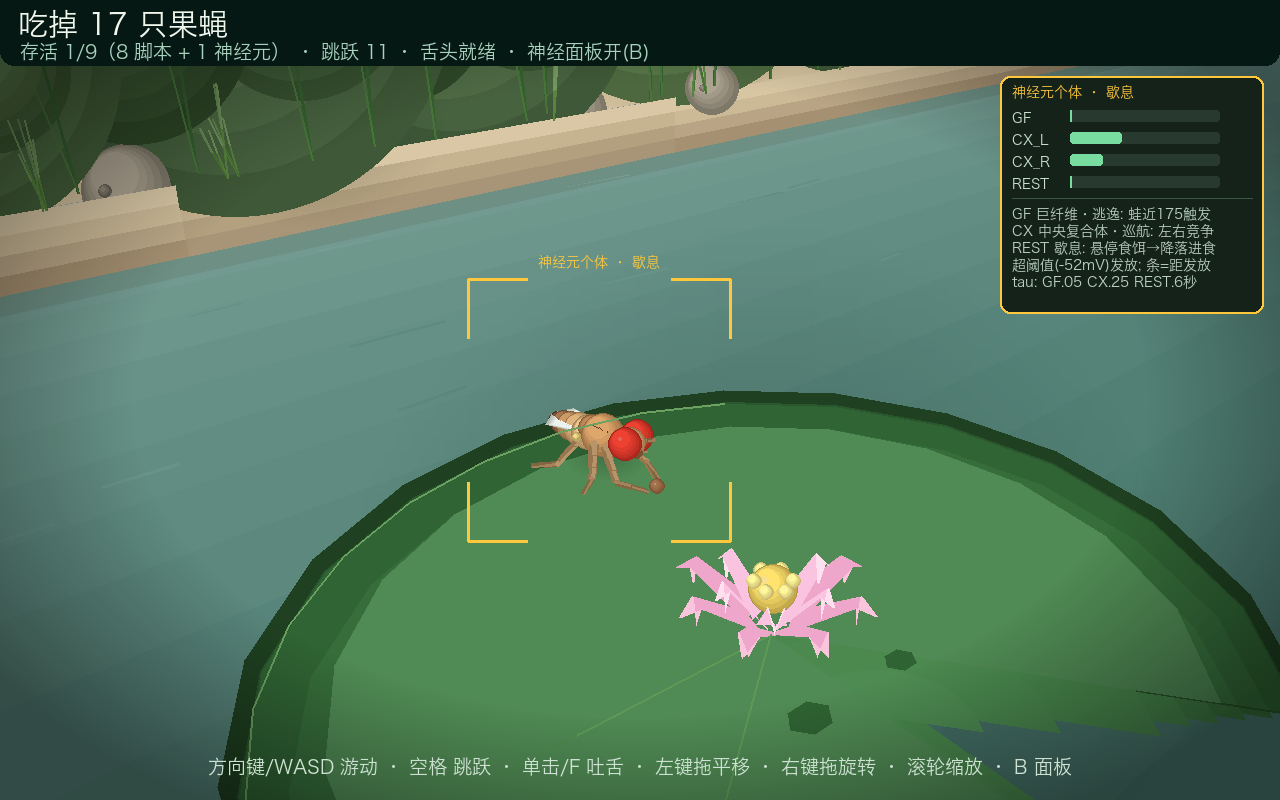
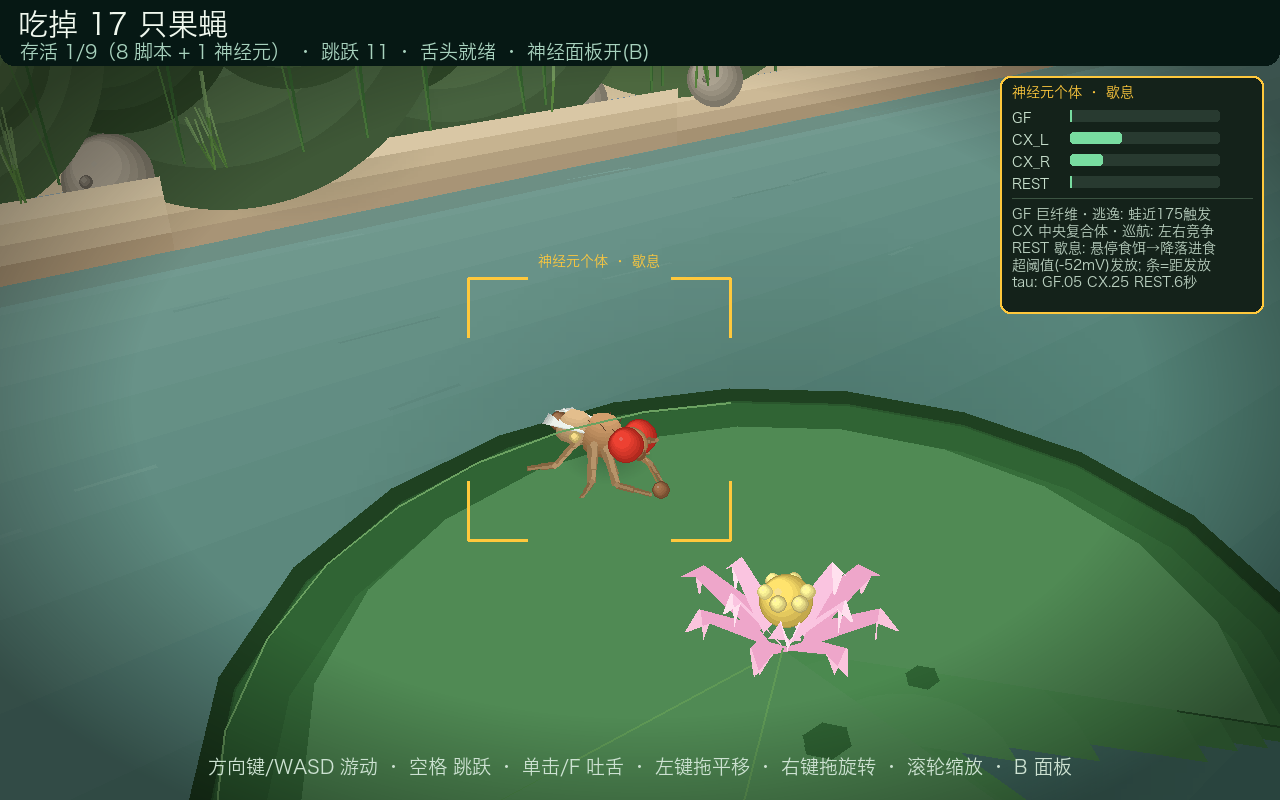
fix(art): natural frog sitting pose and a simpler, coordinated fly model
Frog: legs are no longer pinned against the body — the hip sits inside the flank, the
femur angles back-out to a knee just outside the silhouette (side 29), the tibia folds
forward along the flank and the webbed foot lies alongside the body with toes fanned
slightly outward. Limbs are a touch thinner and the front legs are shorter, so the
silhouette reads as a sitting frog rather than a splayed or glued-together one.

Fly: replaced the bead-string body with three continuous ellipsoid volumes — a humped
thorax, a tapering abdomen and a darker tip — plus one clean row of dorsal bristles,
eyes that fill the head and a permanently visible proboscis. Legs stay as tapered
limbs with lit joint fills; wings keep the rounded outline, veins and leading-edge
highlight. Fewer, larger shapes instead of many small details.

Docs: the four game screenshots regenerated with the new models.

Verified: --selftest PASS

diff --git a/main.py b/main.py
@@ -196,47 +196,47 @@ class Frog:
         静止时是青蛙的坐姿——膝略微顶出身体轮廓, 长脚掌贴着身体侧面向前收；
         游动/跳跃时腿才蹬开(swing 驱动)。"""
         kick = swing / 9.0 if not airborne else 1.0      # -1 ~ 1
-        hip = self._local(-8, side * 13, 9.5)
-        if airborne:
-            knee = self._local(-29, side * 17, 8.0)
-            ankle = self._local(-15, side * 23, 7.0)
-            toe = self._local(5, side * 21, 6.5)
-        else:
-            knee = self._local(-20 - 3.0 * kick, side * 23 + 3.0 * abs(kick), 6.5)
-            ankle = self._local(0 + 4.0 * kick, side * 28 + 2.5 * abs(kick),
+        hip = self._local(-6, side * 16, 9.0)
+        if airborne:                                     # 腾空: 腿向后伸展
+            knee = self._local(-27, side * 21, 8.0)
+            ankle = self._local(-15, side * 27, 7.0)
+            toe = self._local(3, side * 25, 6.5)
+        else:                                            # 坐姿: 股向后外、胫折向前、脚掌贴身边
+            knee = self._local(-22 - 3.0 * kick, side * 29 + 2.0 * abs(kick), 6.5)
+            ankle = self._local(2 + 4.0 * kick, side * 30 + 2.0 * abs(kick),
                                 gz - self.z + 2.0)
-            toe = self._local(13 + 3.0 * kick, side * 26, gz - self.z + 1.2)
+            toe = self._local(16 + 3.0 * kick, side * 27, gz - self.z + 1.2)
         # 股部：贴在大腿上的扁平肌肉块(椭圆), 比一根粗筒自然得多
         femur_ang = math.atan2(knee.y - hip.y, knee.x - hip.x)
         thigh = hip.lerp(knee, 0.48)
-        blob(painter, cam, thigh.x, thigh.y, hip.z - 4.0, 13.0, 8.2, 8.5,
+        blob(painter, cam, thigh.x, thigh.y, hip.z - 4.0, 12.5, 8.0, 8.0,
              mix(skin, dark, 0.16), heading=femur_ang, layers=9, taper=0.40, bias=0.55)
-        limb(painter, cam, knee, ankle, 5.6, skin, bias=0.3, taper=0.58)
-        limb(painter, cam, ankle, toe, 4.4, mix(skin, dark, 0.18), bias=0.2, taper=0.6)
+        limb(painter, cam, knee, ankle, 5.0, skin, bias=0.3, taper=0.6)
+        limb(painter, cam, ankle, toe, 4.0, mix(skin, dark, 0.18), bias=0.2, taper=0.6)
         for k in range(4):                                  # 蹼趾：从跗端向前扇开
-            ta = self.heading + side * (0.52 - k * 0.34)
-            tip = V3(toe.x + math.cos(ta) * 9, toe.y + math.sin(ta) * 9, toe.z)
-            limb(painter, cam, toe, tip, 2.8, mix(skin, dark, 0.28), bias=0.1, taper=0.5)
+            ta = self.heading + side * (0.46 - k * 0.30)
+            tip = V3(toe.x + math.cos(ta) * 10, toe.y + math.sin(ta) * 10, toe.z)
+            limb(painter, cam, toe, tip, 2.6, mix(skin, dark, 0.28), bias=0.1, taper=0.5)
         web = [toe]                                         # 趾间蹼：薄扇形膜, 让后足读作"桨"
         for k in (0, 3):
-            ta = self.heading + side * (0.52 - k * 0.34)
-            web.append(V3(toe.x + math.cos(ta) * 7.8, toe.y + math.sin(ta) * 7.8, toe.z - 0.2))
+            ta = self.heading + side * (0.46 - k * 0.30)
+            web.append(V3(toe.x + math.cos(ta) * 8.6, toe.y + math.sin(ta) * 8.6, toe.z - 0.2))
         flat_polygon(painter, cam, web, mix(skin, dark, 0.5), bias=0.05)
 
     def _front_leg(self, painter, cam, side, gz, swing, airborne, skin, dark):
         """前腿：肩 → 肘 → 腕，三趾。"""
         if airborne:
-            elbow = self._local(26, side * 21, 5.0)
-            wrist = self._local(34, side * 15, 3.0)
+            elbow = self._local(25, side * 22, 5.0)
+            wrist = self._local(32, side * 16, 3.0)
         else:
-            elbow = self._local(24, side * 18, 3.0)
-            wrist = self._local(35 + swing * 0.5 * side, side * 13, gz - self.z + 1.0)
-        shoulder = self._local(17, side * 12, 7.5)
-        limb(painter, cam, shoulder, elbow, 5.6, mix(skin, dark, 0.3), bias=0.4)
-        limb(painter, cam, elbow, wrist, 4.2, skin, bias=0.2)
+            elbow = self._local(24, side * 20, 3.0)
+            wrist = self._local(33 + swing * 0.4 * side, side * 16, gz - self.z + 1.0)
+        shoulder = self._local(15, side * 12, 7.0)
+        limb(painter, cam, shoulder, elbow, 5.2, mix(skin, dark, 0.3), bias=0.4)
+        limb(painter, cam, elbow, wrist, 4.0, skin, bias=0.2)
         for k in range(3):
             ta = self.heading + side * (0.42 - k * 0.42)
-            tip = V3(wrist.x + math.cos(ta) * 7, wrist.y + math.sin(ta) * 7, wrist.z)
+            tip = V3(wrist.x + math.cos(ta) * 8, wrist.y + math.sin(ta) * 8, wrist.z)
             limb(painter, cam, wrist, tip, 2.4, mix(skin, dark, 0.25), bias=0.1, taper=0.5)
 
     def draw(self, painter, cam, t, pads):
@@ -427,28 +427,23 @@ class FlyBase:
             # 股→胫→跗三段锥形, 关节用亮色补圆(不再是一颗颗球)
             limb(painter, cam, hp, kn, 0.80, (176, 138, 92), taper=0.72)
             limb(painter, cam, kn, ft, 0.52, (154, 118, 76), taper=0.55)
-        # 身体: 参考真实果蝇——5 节琥珀色腹部环带(向后变细变深) + 驼背状胸部 + 小盾片
-        for k, (ax, rr, col) in enumerate(((-2.2, 2.9, (224, 184, 128)),
-                                           (-4.1, 2.75, (210, 166, 110)),
-                                           (-5.9, 2.5, (188, 140, 90)),
-                                           (-7.4, 2.1, (152, 104, 66)),
-                                           (-8.6, 1.6, (114, 72, 46)))):
-            ab = V3(x + rot2(ax, 0, h)[0], y + rot2(ax, 0, h)[1], z + 1.25 - 0.06 * k)
-            sphere(painter, cam, ab, rr, col, bias=0.5 + 0.02 * k, sheen=0.75)
-        th = V3(x + rot2(0.7, 0, h)[0], y + rot2(0.7, 0, h)[1], z + 1.9)
-        sphere(painter, cam, th, 3.5, (208, 152, 94), bias=0.8, sheen=0.7)
-        sc = V3(x + rot2(-1.5, 0, h)[0], y + rot2(-1.5, 0, h)[1], z + 2.3)
-        sphere(painter, cam, sc, 2.3, (178, 122, 76), bias=0.85, sheen=0.6)
-        # 刚毛：胸部两列背中刚毛 + 头顶两对(真实果蝇最一眼可辨的特征)
-        for k in range(8):
-            row, col_i = divmod(k, 4)
-            ba = h + math.pi / 2 + (col_i - 1.5) * 0.5
-            tilt = 0.5 + 0.3 * (1 - abs(col_i - 1.5) / 1.5)
-            b0 = V3(x + rot2(-0.6 + 0.9 * col_i, (row - 0.5) * 1.5, h)[0],
-                    y + rot2(-0.6 + 0.9 * col_i, (row - 0.5) * 1.5, h)[1], z + 3.3)
-            b1 = V3(b0.x + math.cos(ba) * 1.2 * (row * 2 - 1),
-                    b0.y + math.sin(ba) * 1.2 * (row * 2 - 1), z + 3.3 + 1.7 * tilt)
-            segment(painter, cam, b0, b1, (88, 58, 38), 1, bias=0.5)
+        # 身体: 三段连续椭球(头/胸/腹)而不是一串小球——胸部隆起、腹部向后收细
+        thc = rot2(1.0, 0, h)
+        blob(painter, cam, x + thc[0], y + thc[1], z + 0.1, 3.6, 3.0, 4.8,
+             (204, 146, 90), heading=h, layers=10, taper=0.44, bias=0.8)
+        abc = rot2(-4.4, 0, h)
+        blob(painter, cam, x + abc[0], y + abc[1], z + 0.2, 3.5, 2.8, 3.6,
+             (224, 182, 126), heading=h, layers=9, taper=0.52, bias=0.55)
+        tipc = rot2(-8.0, 0, h)
+        sphere(painter, cam, V3(x + tipc[0], y + tipc[1], z + 1.1), 1.6,
+               (150, 102, 66), bias=0.5, sheen=0.6)
+        # 刚毛: 胸部一列背中刚毛(少而清楚, 不堆细节)
+        for k in range(5):
+            bx0, by0 = rot2(-0.6 + 1.1 * k, (k % 2 - 0.5) * 1.3, h)
+            b0 = V3(x + bx0, y + by0, z + 3.4)
+            b1 = V3(b0.x + math.cos(h + math.pi / 2) * 1.1 * (1 if k % 2 else -1),
+                    b0.y + math.sin(h + math.pi / 2) * 1.1 * (1 if k % 2 else -1), z + 4.8)
+            segment(painter, cam, b0, b1, (92, 62, 40), 1, bias=0.5)
         # 平衡棒（后翅退化成的陀螺仪器官，飞行平衡用）
         for side in (-1, 1):
             hp = V3(x + rot2(-2.6, side * 2.4, h)[0], y + rot2(-2.6, side * 2.4, h)[1], z + 1.4)
